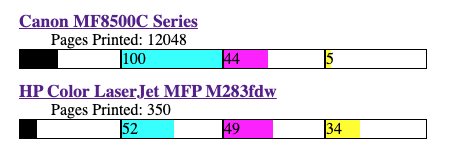
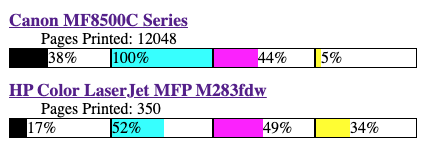
Improved the output of the Percentage numbers

Changed region(s): [[0.0, 0.5135, 0.972, 0.9459], [0.0, 0.0811, 0.972, 0.4595]]

diff --git a/printer-snmp.py b/printer-snmp.py
@@ -69,6 +69,10 @@ for ip in ['192.168.4.55', '192.168.4.77']:
 	print("<div style=\"padding-left:2em\">Pages Printed: %s</div>" % results[snmp_PagesPrinted])
 	for (name, value, color) in zip(snmp_ColorNames, snmp_ColorValue, snmp_Colors):
 		print("<div style=\"width:100px;height:1.1em;border:1px black solid; float:left\">")
-		print("<div style=\"width:%s%% ; background-color: %s \">%s</div>" % (results[value], color, results[value]))
+		print("<div style=\"width:%s%% ;height:100%%; background-color: %s; float:left\">" % (results[value], color))
+		if (int(results[value]) < 50):
+			print("</div> %s%%" % results[value])
+		else:
+			print(" %s%%</div>" % results[value])
 		print("</div>")
 	print("</div>")
